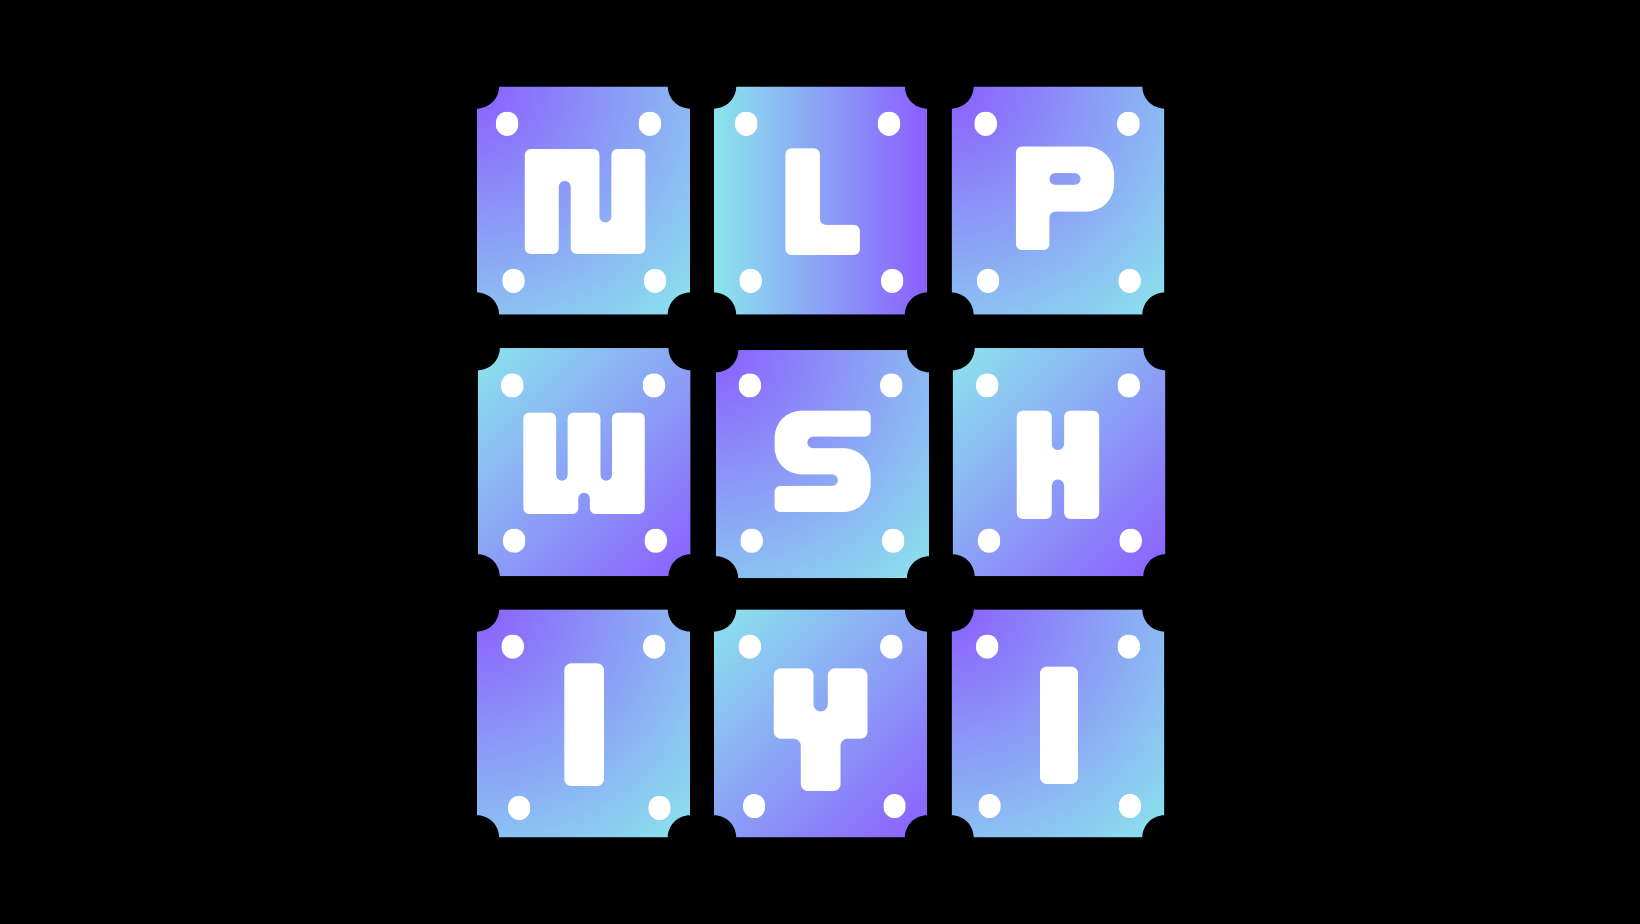
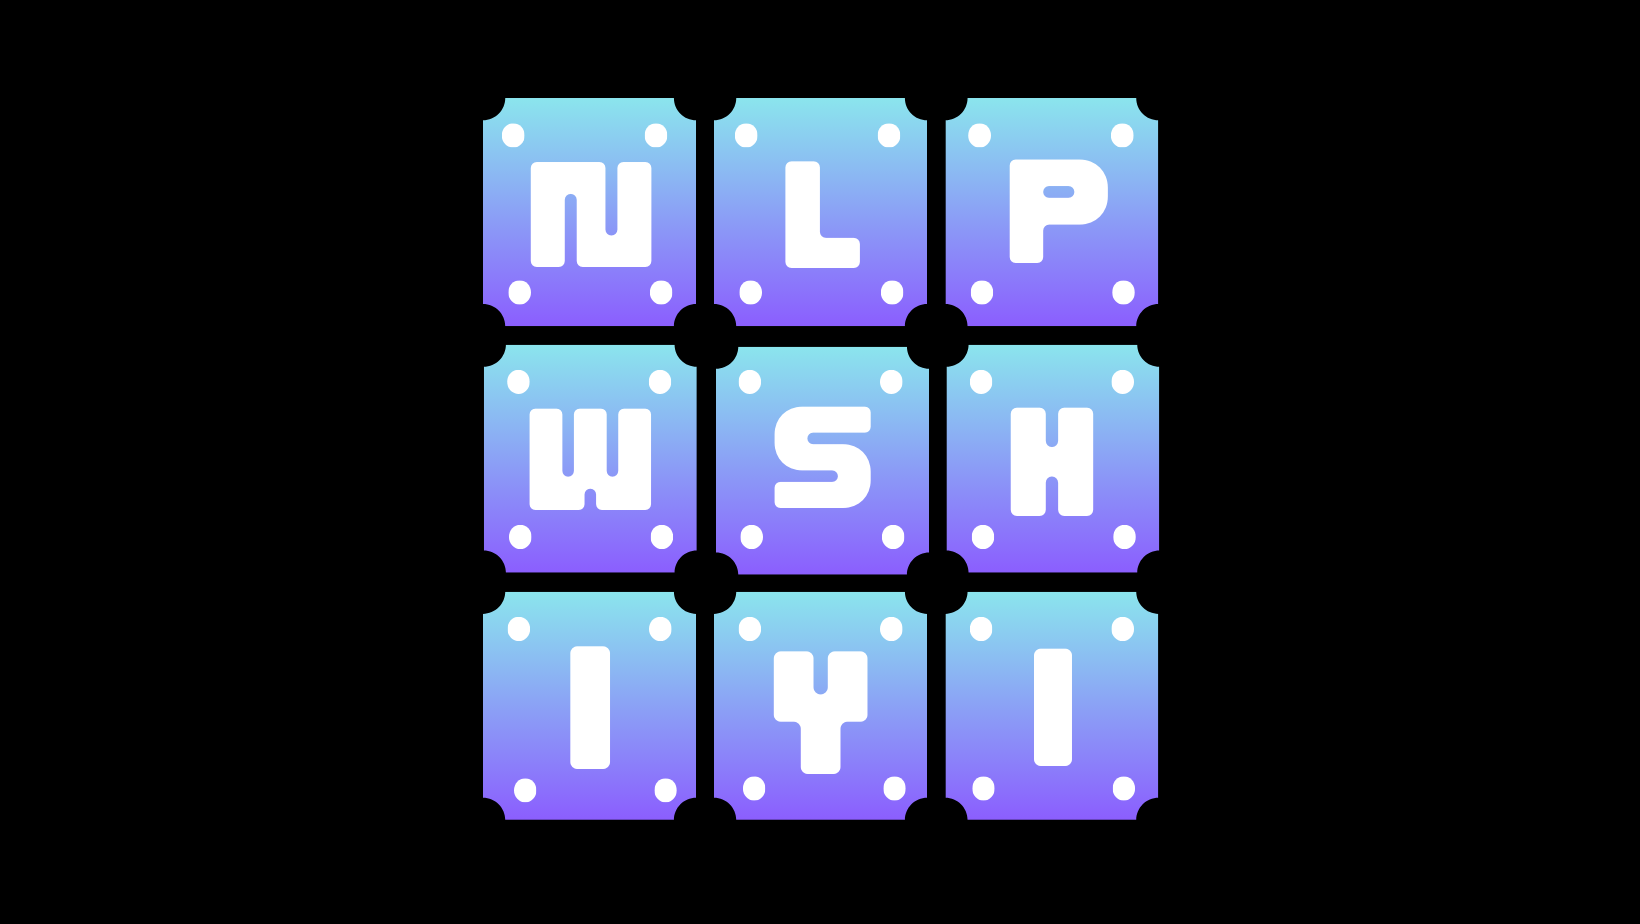
franklin-update

Changed region(s): [[0.2799, 0.0909, 0.7152, 0.9091]]

diff --git a/index.md b/index.md
@@ -1,5 +1,5 @@
 
-![intro](./assets/nlpwme4.png)
+![intro](./assets/nlpwme2.png)
 
 # Understanding Natural Language Processing with Me!
 
